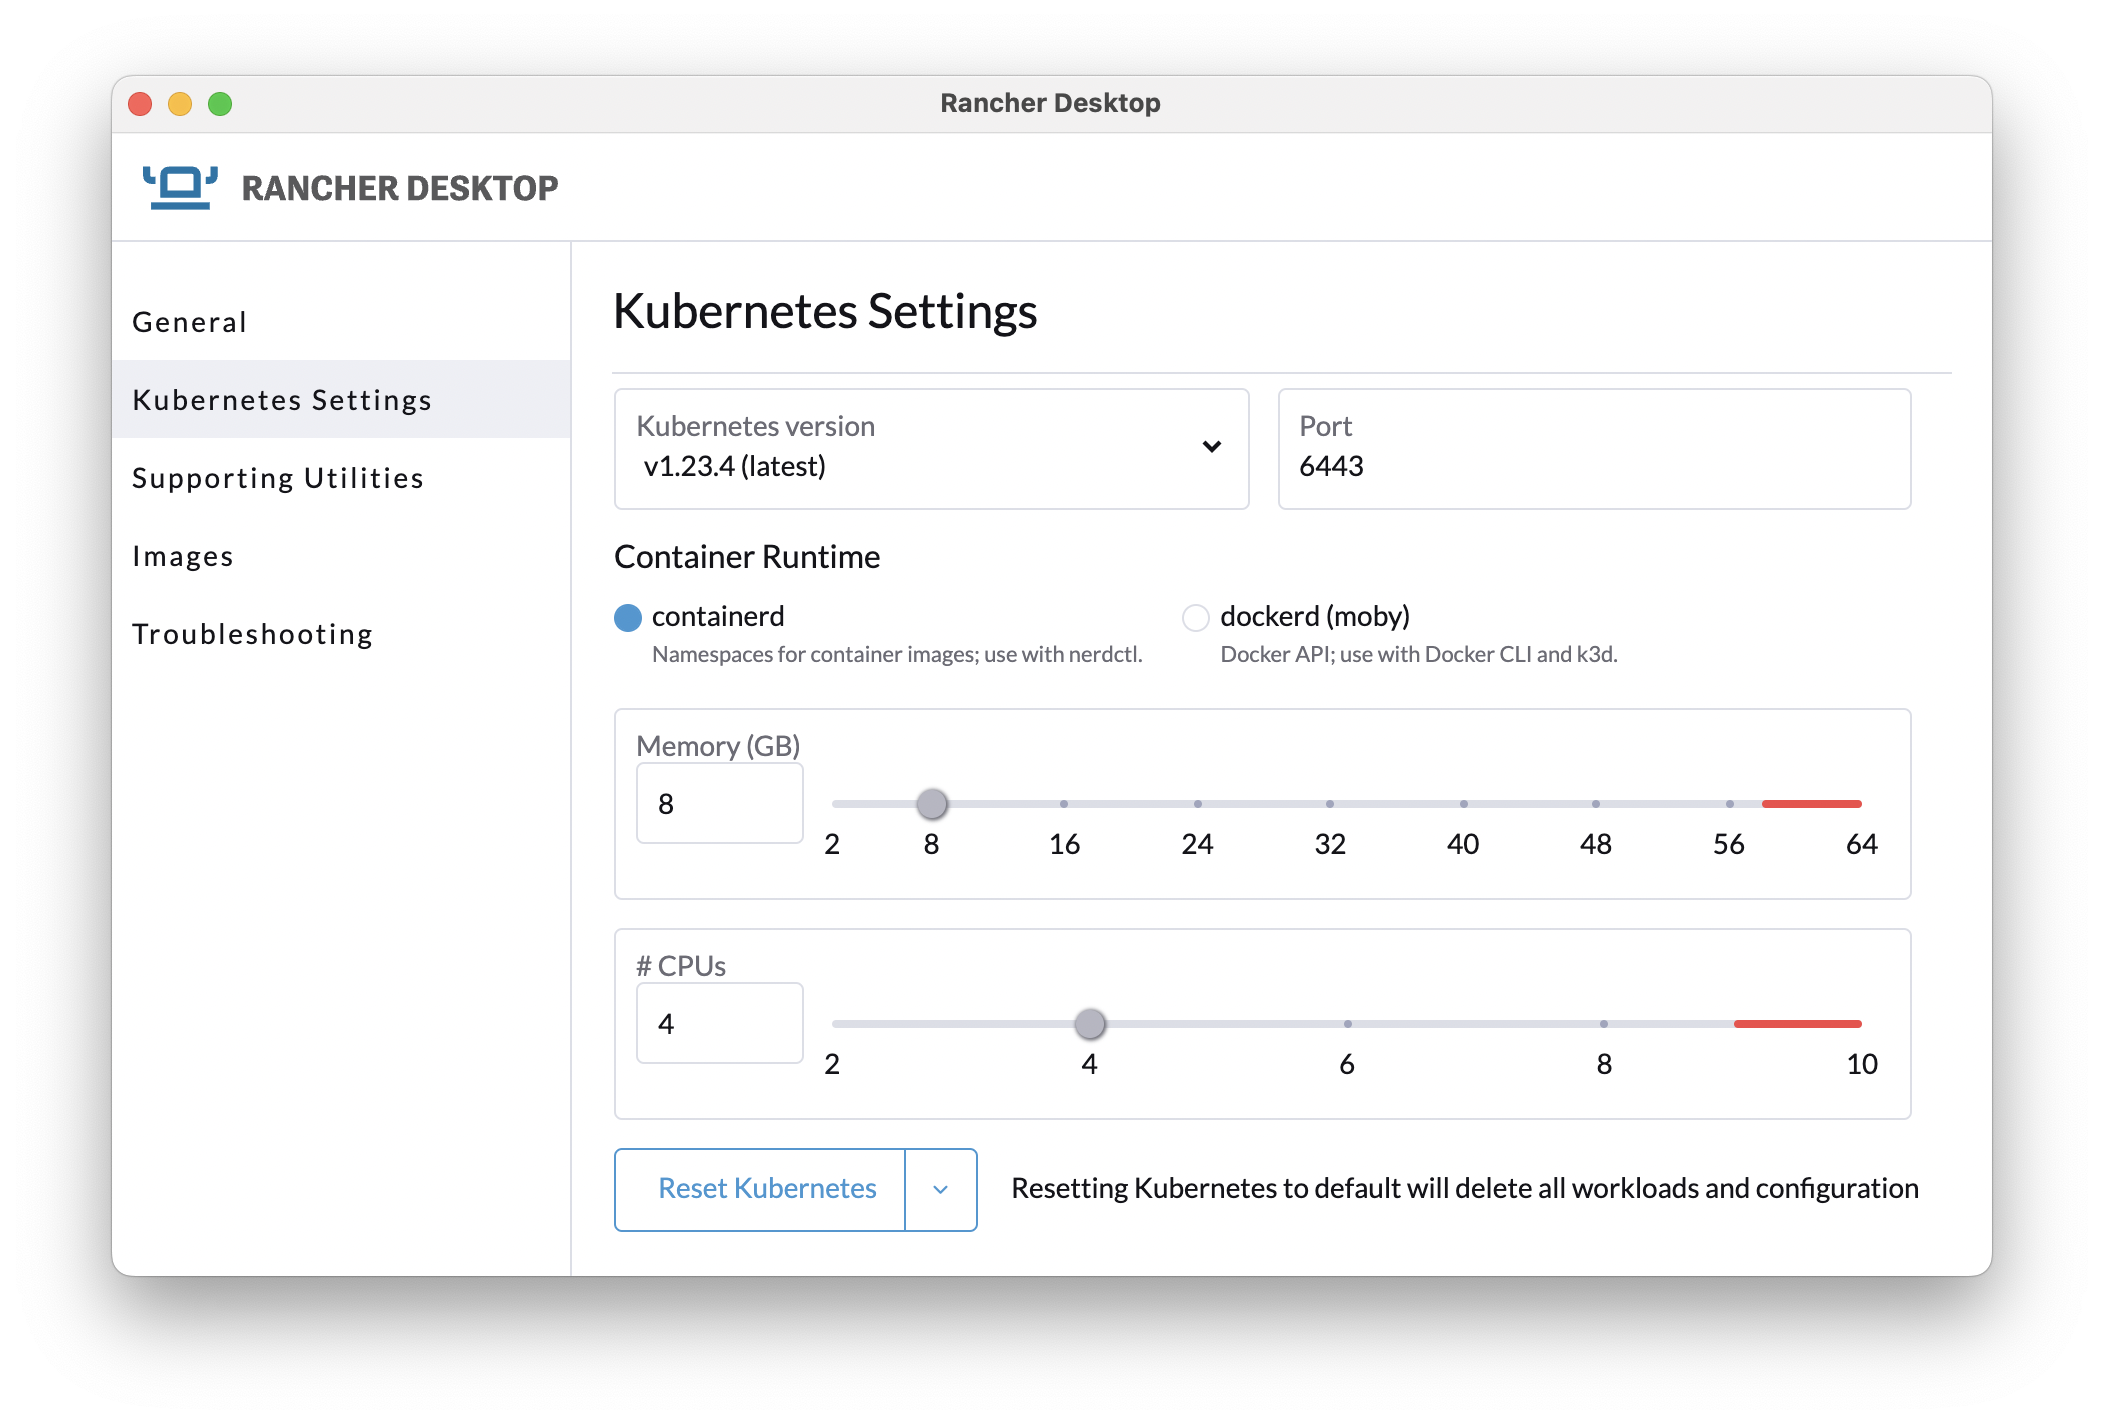
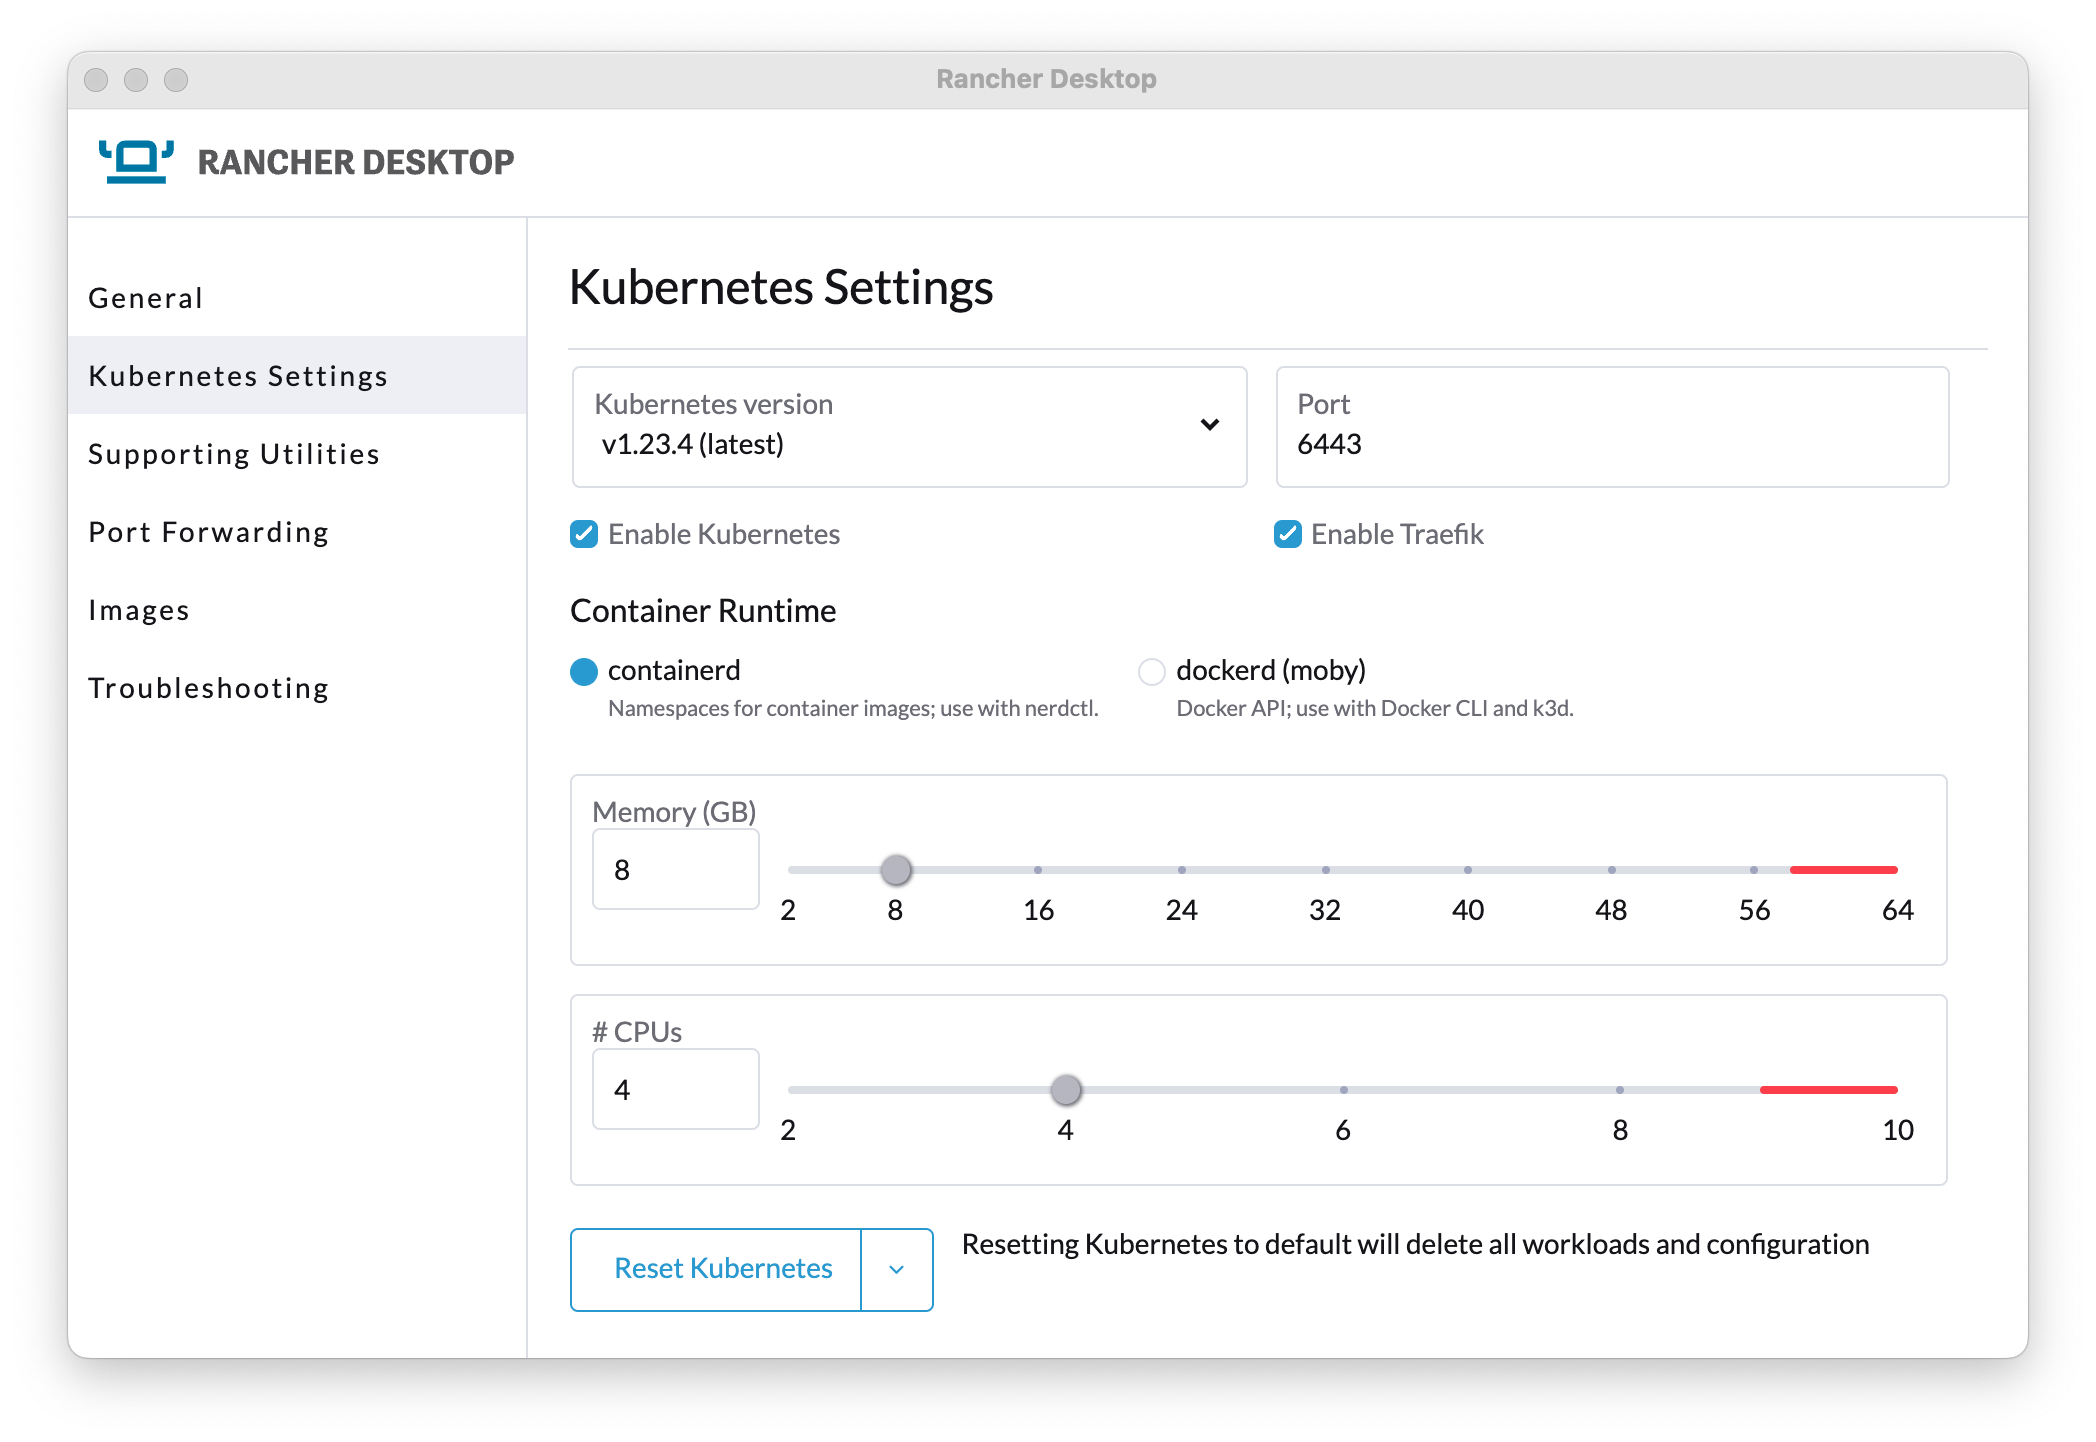
docs(apps): updated rancher desktop to latest version

diff --git a/docs/apps/rancher-desktop.md b/docs/apps/rancher-desktop.md
@@ -4,6 +4,10 @@ Provides **Docker**, **Kubernetes** runtime and CLI **tools** for local developm
 
 **[Rancher Desktop](https://rancherdesktop.io)** Kubernetes and Container Management on the Desktop. Is the replacement for **Docker for Mac**
 
+Download and install the latest binary for your platform from [rancherdesktop.io](https://rancherdesktop.io/).
+Unpack and move `Rancher Desktop.app` to `/Applications`<br/>
+_e.g., Rancher.Desktop-x.y.z.aarch64.dmg for Mac M1_
+
 It includes:
 
 1. [lima](https://github.com/lima-vm/lima)
@@ -17,35 +21,26 @@ After _Rancher Desktop_ is installed, users will have access to these supporting
 - [Helm](https://helm.sh/)
 - [kubectl](https://kubernetes.io/docs/reference/kubectl/overview/)
 - [nerdctl](https://github.com/containerd/nerdctl)
-- [Moby](https://github.com/moby/moby)
+- **rdctl** - Do all action you can do at _Rancher Desktop_ UI via command line
+    ```shell
+    rdctl list-settings
+    rdctl set --container-runtime dockerd --kubernetes-version 1.23.4
+    rdctl shutdown
+    ```
 
-## Prerequisites
+## Configuration
 
 It is recommended assign:
 * 8 GB of memory
 * 4 CPU
+* Enable **Traefik**
 
 ![rancher-desktop-settings](../images/rancher-desktop-settings.png)
+![rancher-desktop-utilities](../images/rancher-desktop-utilities.png)
 
-## Install
+##  DevOps tools
 
-Download and install the latest binary _[Rancher.Desktop-x.x.x-mac.aarch64.zip]_ for M1 MacBooks from [here](https://github.com/rancher-sandbox/rancher-desktop/releases), 
-Unpack and move `Rancher Desktop.app` to `/Applications`<br/>
-if you get Error: `Error Directory /usr/local/bin doesn't exist` , follow [workaround](https://github.com/rancher-sandbox/rancher-desktop/issues/1441) <br/>
-As of Rancher.Desktop-1.1.1, the temp workaround is:
-```shell
-sudo chmod 775 /private/var/run/rancher-desktop-lima
-#sudo chown -R "$USER":staff /private/var/run/rancher-desktop-lima
-mkdir -p /usr/local/bin
-sudo chmod go+w /usr/local/bin
-#sudo chown "$USER":staff /usr/local/bin
-```
-Once the fix is release, consider reverting `/usr/local/bin` mode.
-```shell
-sudo chmod go-w /usr/local/bin
-```
-
-Optional DevOps tools for SREs
+Install optional DevOps tools for SREs
 ```shell
 brew install kubectx # to switch kube context, namespace quickly. https://github.com/ahmetb/kubectx 
 brew install kubens # to switch kube  quickly 
@@ -54,9 +49,20 @@ brew install kustomize # Kubernetes native configuration management
 brew install stefanprodan/tap/kustomizer # package manager for distributing Kubernetes configuration as OCI artifacts
 brew install derailed/k9s/k9s # Manage Your k8s In Style!
 brew install istioctl # Istio configuration command line utility 
-brew install dive # A tool for exploring each layer in a docker image
+brew install dive # A tool for exploring a docker image, layer contents, and discovering ways to shrink the size of your Docker/OCI image
 brew install crane # A tool for interacting with remote images and registries.
+brew install cosign # Container Signing, Verification and Storage in an OCI registry. 
 brew install skaffold # build and deploy docker images
+go install sigs.k8s.io/bom/cmd/bom@latest # Create SPDX-compliant Bill of Materials
+```
+
+**nerdctl** runs inside the lima VM, so the **cosign** binary has to be installed inside the VM as well.<br/>
+Install **cosign** with following script as workaround for [issue](https://github.com/rancher-sandbox/rancher-desktop/issues/1905)
+
+```shell
+LIMA_HOME="$HOME/Library/Application Support/rancher-desktop/lima" \
+"/Applications/Rancher Desktop.app/Contents/Resources/resources/darwin/lima/bin/limactl" shell 0 sudo apk add cosign \
+--repository=http://dl-cdn.alpinelinux.org/alpine/edge/community
 ```
 
 ## Usage
@@ -88,8 +94,8 @@ nerdctl -n k8s.io images
 
 nerdctl login -u aaaa -p bbb
 # Log in to your repository, I am using GitHub container registry
-echo $GHCR_TOKEN | nerdctl login  -u xmlking --password-stdin ghcr.io
-
+export GITHUB_PACKAGES_TOKEN=ghp_YOUR_TOKEN
+echo $GITHUB_PACKAGES_TOKEN | nerdctl login ghcr.io -u xmlking --password-stdin
 # docker login -u {github_username} -p {[token](https://github.com/settings/tokens)} ghcr.io
 
 # inspect image 
@@ -144,6 +150,15 @@ Verify the container image while pulling:
 nerdctl pull --verify=cosign devopps/hello-world
 ```
 
+_Currently, above integrated command: `nerdctl push --sign=cosign`  [don't work](https://github.com/rancher-sandbox/rancher-desktop/issues/1905). workaround:_ 
+```shell
+# push first 
+nerdctl push -ghcr.io/xmlking/grpc-starter-kit/base:v0.2.0
+# then sigh and verify
+COSIGN_EXPERIMENTAL=1 cosign sign ghcr.io/xmlking/grpc-starter-kit/base:v0.2.0
+COSIGN_EXPERIMENTAL=1 cosign verify ghcr.io/xmlking/grpc-starter-kit/base:v0.2.0
+```
+
 #### Generate and upload the SBOM
 
 We will use the **syft** to generate the SBOM and once its generated we will attach to image using **cosign**
@@ -154,7 +169,7 @@ cosign attach sbom --sbom latest.spdx ghcr.io/xmlking/sampleapp:0.0.1
 ```
 
 ### Dive
-To debug docker image layers:
+To explore docker image layers:
 
 ```bash
 dive spring-service:1.6.5-SNAPSHOT

diff --git a/docs/devops/terraform.md b/docs/devops/terraform.md
@@ -18,7 +18,7 @@ A typical infrastructure of a product can be categorized into the following thre
 ### Project Layout
 All the terraform code written should follow a consistent code structure. Below can be an example:
 
-![code-structure](../images/terraform-code-structure.png)
+![terraform-code-structure](../images/terraform-code-structure.png)
 - _modules :_ This folder should contain terraform code for resource creation . Examples : vpc,rds,subnets etc. Creating modules promotes reusability, hence reducing code duplication. Also each of the sub-folders/resources in modules should contain a structure like : main.tf , variables.tf , output.tf
 - _policy :_ This folder should contain policy documents such as IAM role policies as json files .So this folder should act as a collection of policies which would be used by the modules folder. Examples : rds_iam_role_polcy.json , etc.
 - _scripts :_ The folder should contain any scripts such as shells scripts or python scripts used for any resource handling or creation . Hence it acts a common place of any kind of script we write for our infra.

diff --git a/docs/devops/kustomize.md b/docs/devops/kustomize.md
@@ -1,3 +1,12 @@
 # Kustomize
 
 **[Kustomize](https://kustomize.io)** is a Kubernetes native configuration management tool.
+
+
+## Style Guide
+
+### Project Layout
+![Kustomize-code-structure](../images/Kustomize-code-structure.png)
+
+## Reference 
+- [Applied GitOps with Kustomize](https://codefresh.io/about-gitops/applied-gitops-with-kustomize/)

diff --git a/docs/devops/devflow/development-workflow.md b/docs/devops/devflow/development-workflow.md
@@ -107,6 +107,11 @@ cog commit feat "add awesome feature"
 
 # With git
 git commit -m "feat: add awesome feature"
+
+# Breaking changes
+cog commit fix -B "add fix a nasty bug" cli
+# Commit Body and footers
+cog commit refactor -e -B "drop support for Node 6" runtime 
 ```
 
 #### Changelogs
